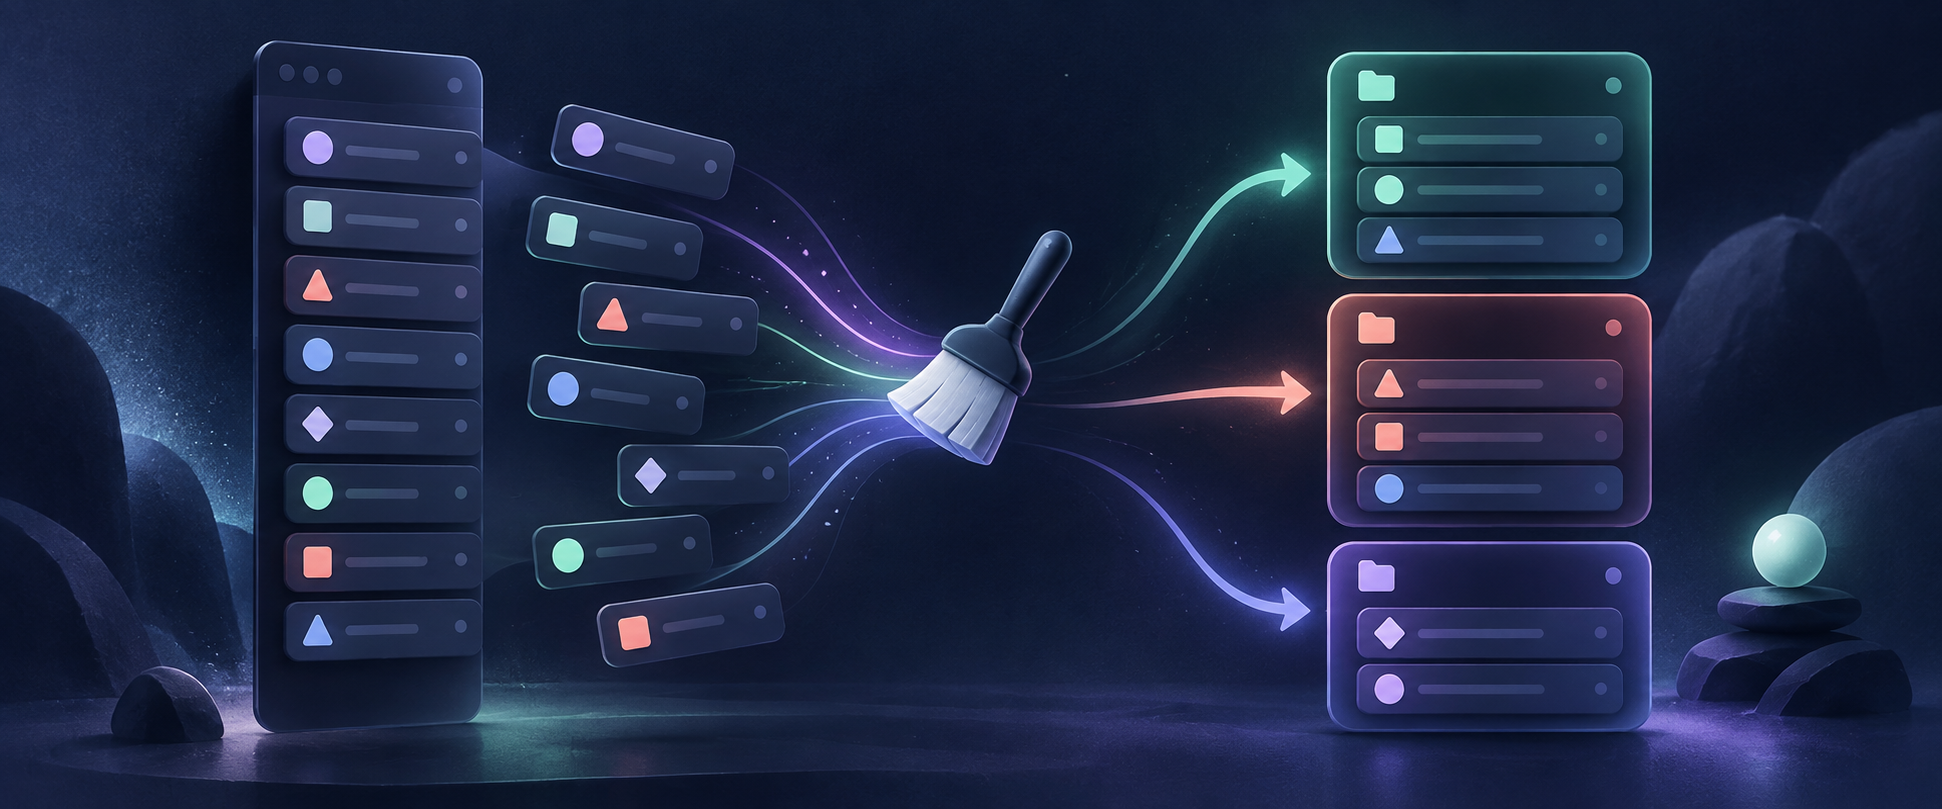
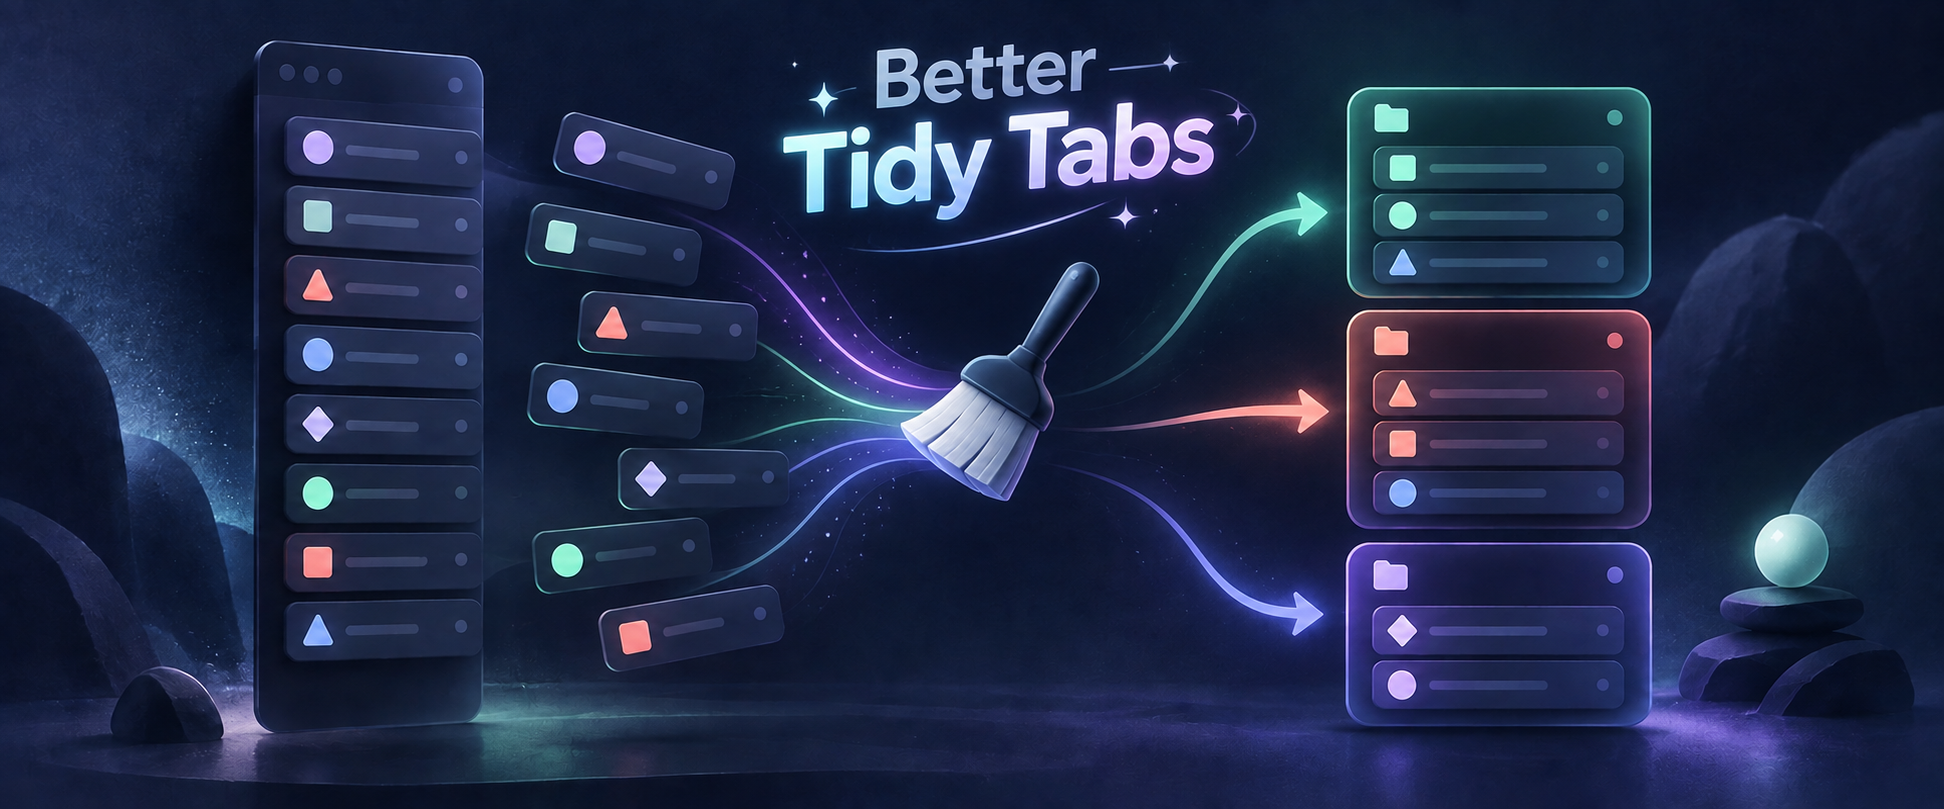
Update README hero image

diff --git a/README.md b/README.md
@@ -3,7 +3,7 @@
 **Version 1.5.0** adds Groq and Mistral cloud sorting, workspace reorganization, and Undo.
 
 <p align="center">
-  <img src="./assets/hero-tabs-groups.png" alt="Loose browser tabs being sorted into topic groups" width="100%">
+  <img src="./assets/hero-tabs-groups.png" alt="Better Tidy Tabs sorting loose browser tabs into topic groups" width="100%">
 </p>
 
 <p align="center">
